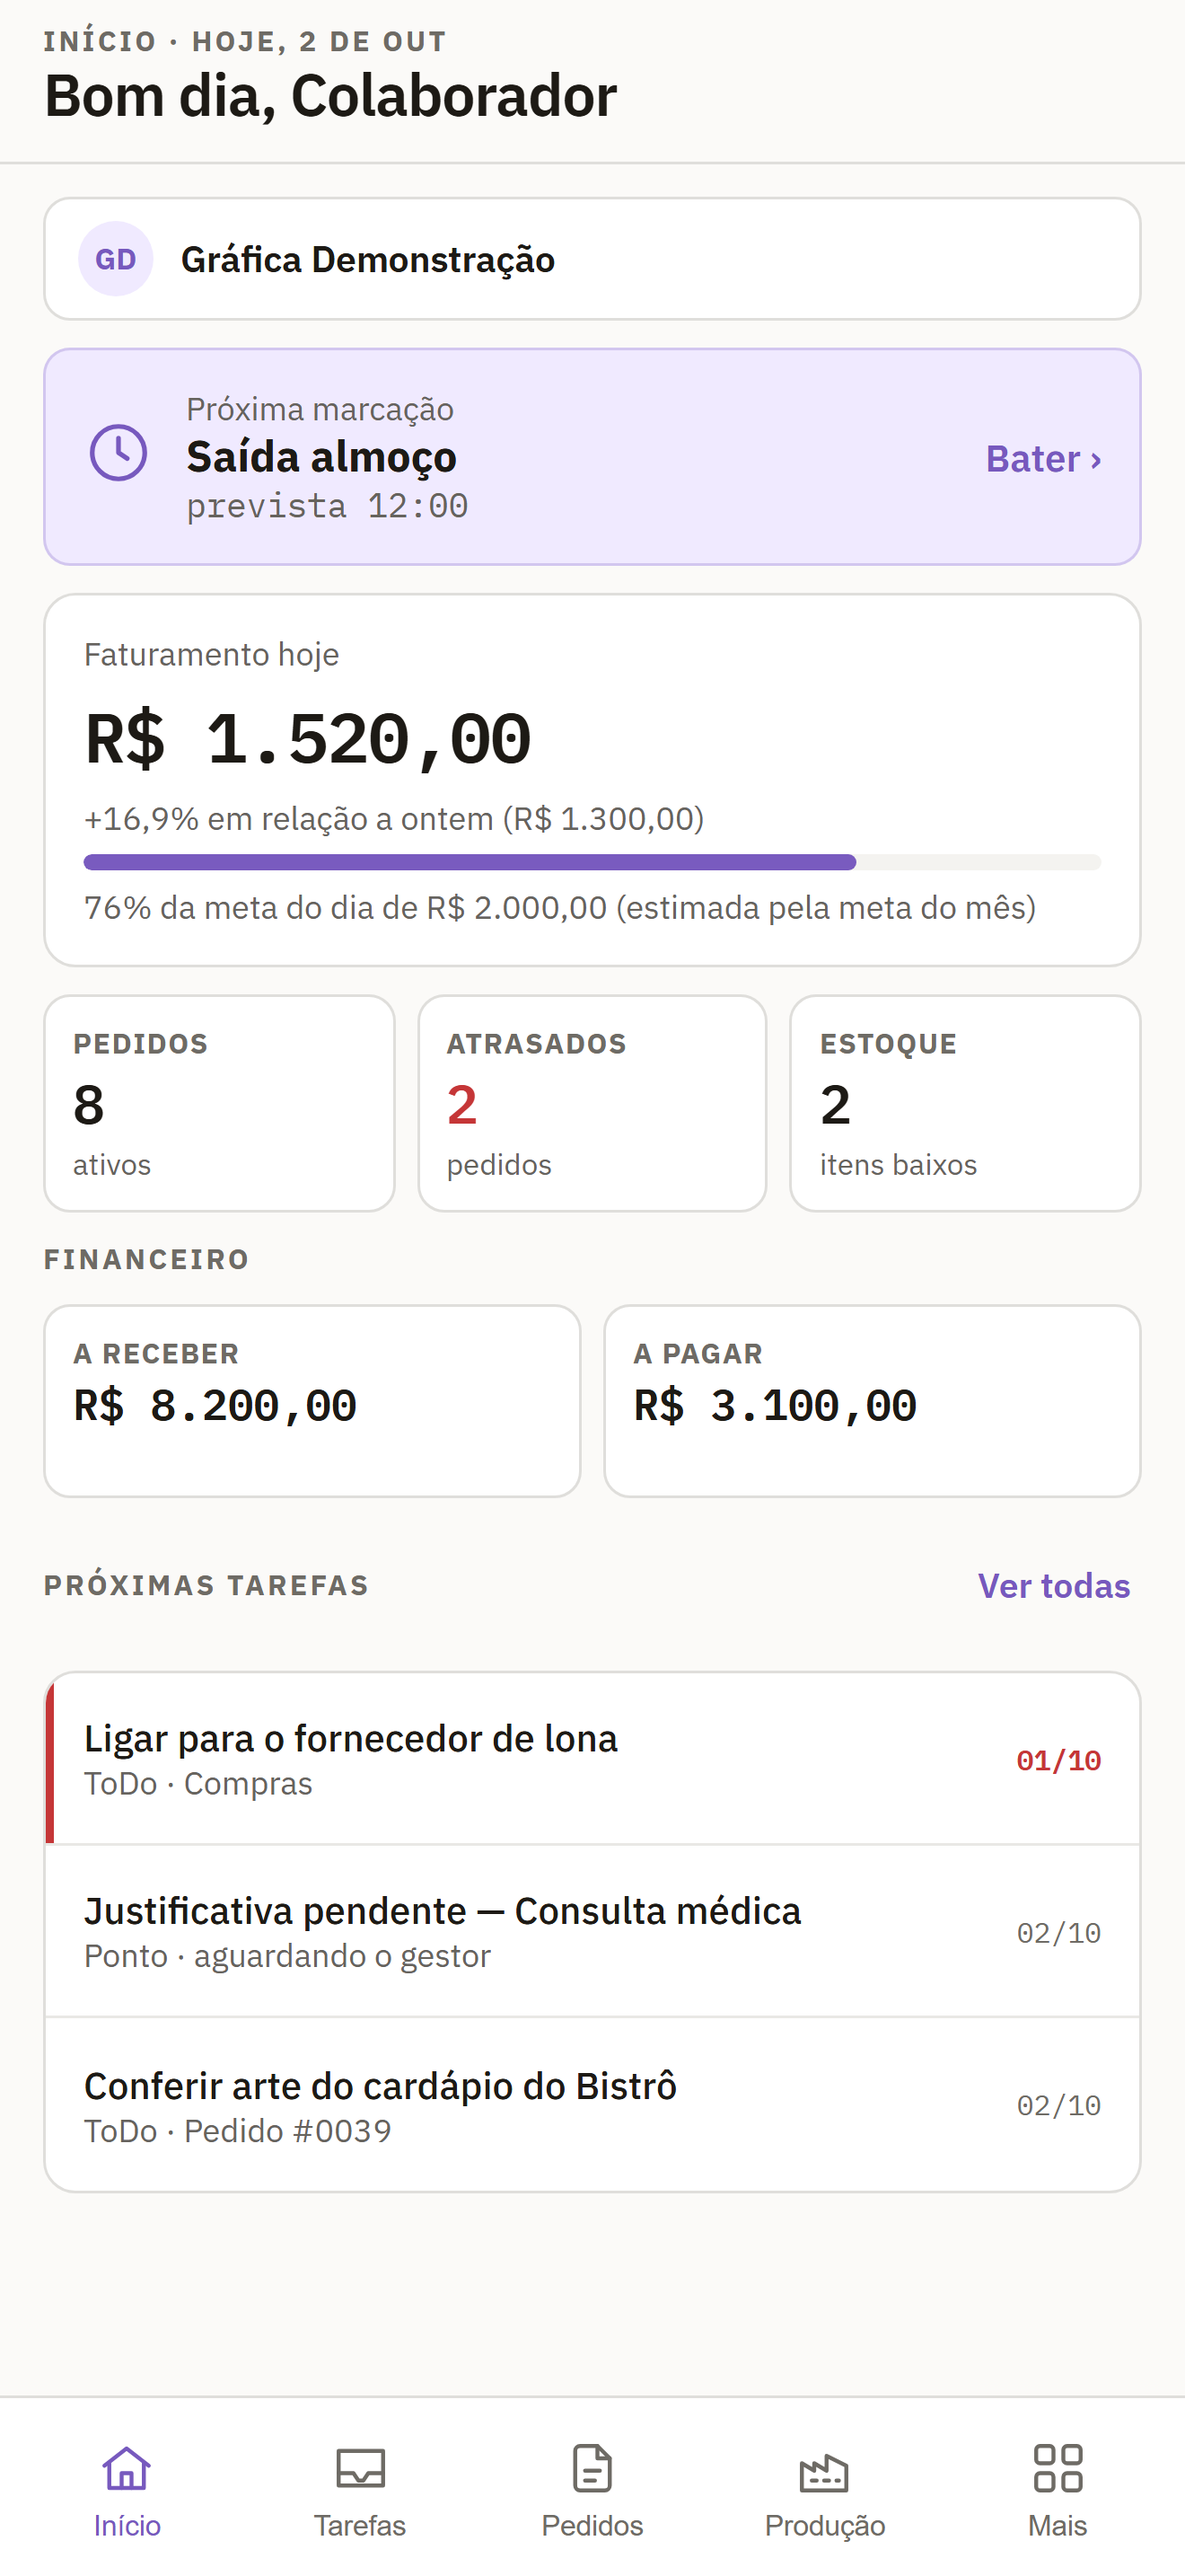
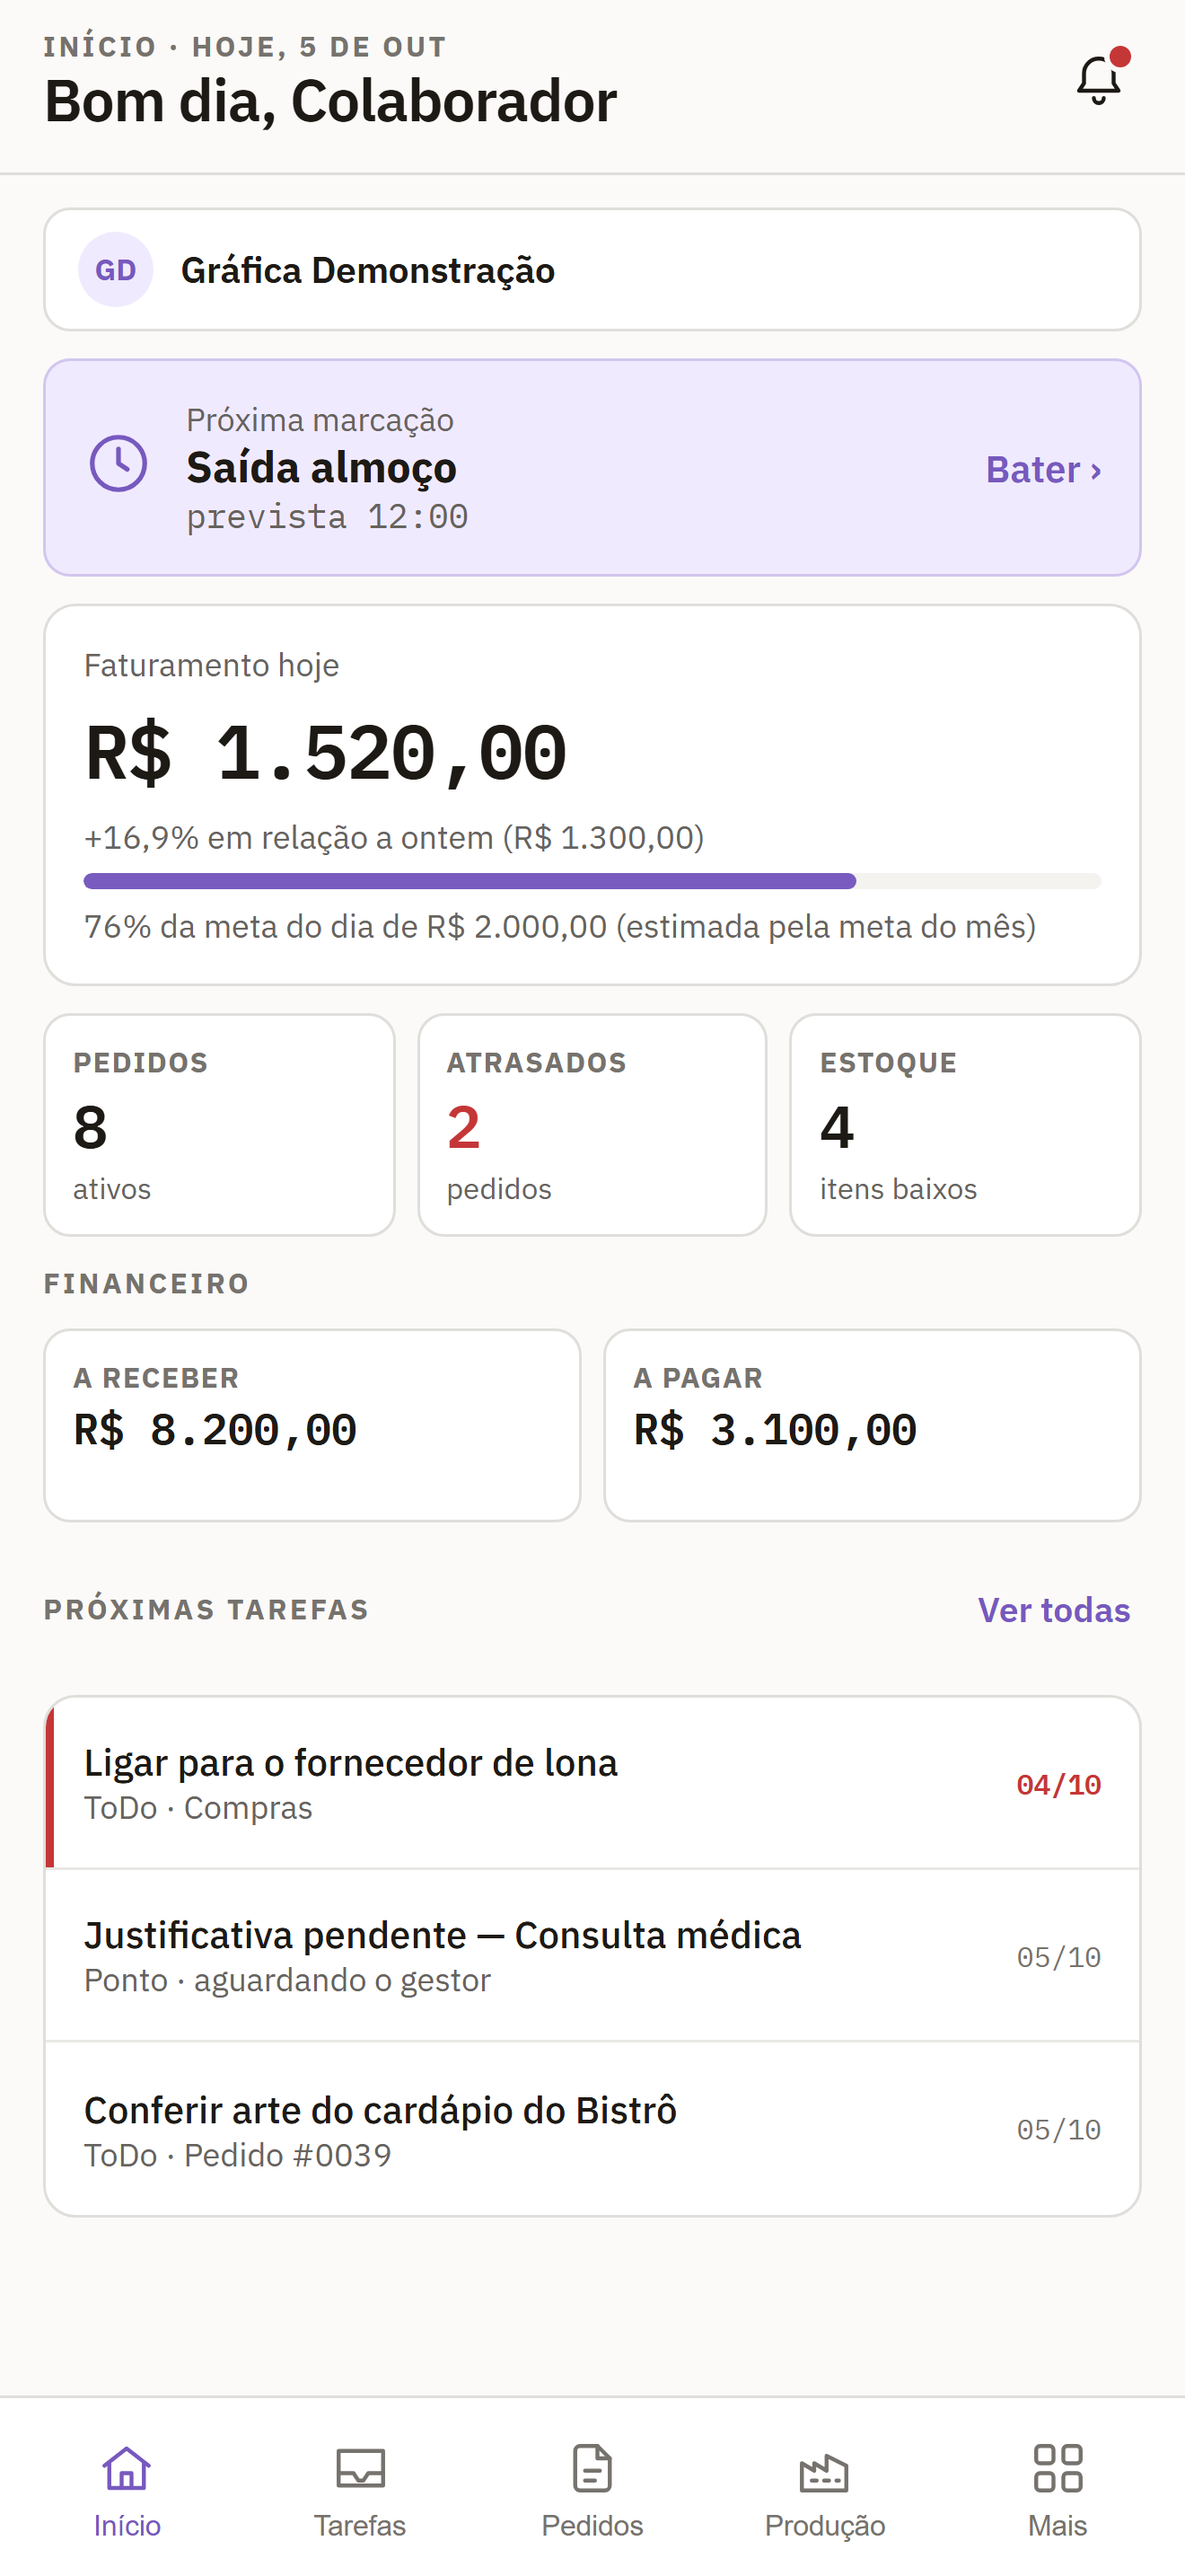
chore(loja): screenshots do 3º lote, escopo D16 (8 telas, Android e iPhone 6.9") (#63)

diff --git a/store-assets/screenshots/README.md b/store-assets/screenshots/README.md
@@ -1,19 +1,24 @@
-# Screenshots de loja — 2º lote: as 7 áreas da v1 (2026-10-02)
+# Screenshots de loja — 3º lote: escopo D16 (2026-10-05)
 
-- **Origem:** `main` com Tarefas (#13), contraste (#14), Pessoas (#17), Produção (#18) e Início (#19);
-  `npm run build:demo`, capturado no Chromium (Playwright) sobre o `www/` do build, tema claro, com GPS
-  simulado e dados fictícios do modo demonstração. Perfil ERP (todas as áreas), que é o que a ficha da loja
-  descreve (D9/D13).
-- **Escondido só na captura:** a faixa "Modo demonstração" e a caixa de demonstração do Login (o build de loja
-  não mostra nenhuma das duas). A tela Conta é gerada (`08-conta`) mas **não** vai à loja.
-- **Trava:** o script falha se o texto visível de uma tela de loja tiver "REP-P", "REP", "Portaria", "671",
-  "Modo demonstração" ou "dados simulados" (ressalva legal, ERP #8417; D9). Provada em 2026-10-02 rodando com a
-  faixa visível: parou em "Modo demonstração".
+- **Origem:** `main` em `b5d17b0` (#62, histórico de OS do veículo); `npm run build:demo`, capturado no
+  Chromium (Playwright) sobre o `www/` do build, tema claro, GPS simulado e dados **fictícios** do modo
+  demonstração (`src/demo.ts`: "Gráfica Demonstração", clientes inventados). Nenhum dado de cliente real e
+  nenhuma chamada a servidor. Perfil ERP (todas as áreas).
+- **Por que mudou:** o 2º lote mostrava as 7 áreas da v1 (D13). A D16 ([W] 2026-10-02) troca o escopo para
+  todas as telas do protótipo antes do envio. O lote passou a mostrar uma tela principal de cada área que
+  já está no `main`.
+- **Ordem na loja** (8 = máximo da Play; a App Store aceita até 10 e usa as mesmas 8):
+  01-inicio · 02-pedidos · 03-producao · 04-tarefas · 05-produtos · 06-financeiro · 07-ordens-de-servico ·
+  08-bater-ponto. O Login saiu porque não mostra função do app.
+- **Escondido só na captura:** a faixa "Modo demonstração" (o build de loja não mostra).
+- **Travas do script:** falha se o texto visível tiver "REP-P", "REP", "Portaria", "671", "Modo demonstração"
+  ou "dados simulados" (ressalva legal, ERP #8417; D9), se a tela mostrar erro, ou se o item de Mais não
+  existir exatamente uma vez.
 - **Tamanhos:** `android-1080x1920/` (telefone Play, 9:16) e `iphone69-1320x2868/` (iPhone 6.9"), PNG RGB sem
-  alfa (tipo de cor 2, conferido).
-- **Ordem na loja** (8 = máximo da Play): 00-login · 01-inicio · 02-tarefas · 03-pedidos · 04-producao ·
-  05-pessoas · 06-bater-ponto · 07-meu-espelho. "Justificar", que estava no 1º lote, saiu para caber no limite.
-- **Refazer:** `node store-assets/screenshots/capturar.mjs <www> <saída> --sem-faixa` (usa o Playwright do repo
-  oimpresso.com; ajuste o caminho do `createRequire` se rodar de outro lugar).
-- **Atenção à ordem de envio:** o revisor entra como colaborador (`revisor.ponto`) e vê só Ponto · Mais (D6, #20).
-  As fotos mostram o app de quem tem o ERP; as notas de revisão explicam a diferença.
+  alfa (tipo de cor 2, conferido nas 16).
+- **Refazer:** `npm run build:demo` e depois `node store-assets/screenshots/capturar.mjs www store-assets/screenshots --sem-faixa`
+  (usa o Playwright do repo oimpresso.com em `D:/oimpresso.com`; ajuste o `createRequire` se rodar de outro lugar).
+- **Antes do envio:** refazer quando entrarem as telas que faltam da D16 e quando PR #51 (tela 20) e #39
+  (tela 11) mergearem, se mudarem estas telas.
+- **Atenção à revisão:** o revisor colaborador (`revisor.ponto`) vê só Ponto · Mais (D6). As fotos mostram o
+  app de quem tem o ERP; as notas de revisão explicam a diferença.
